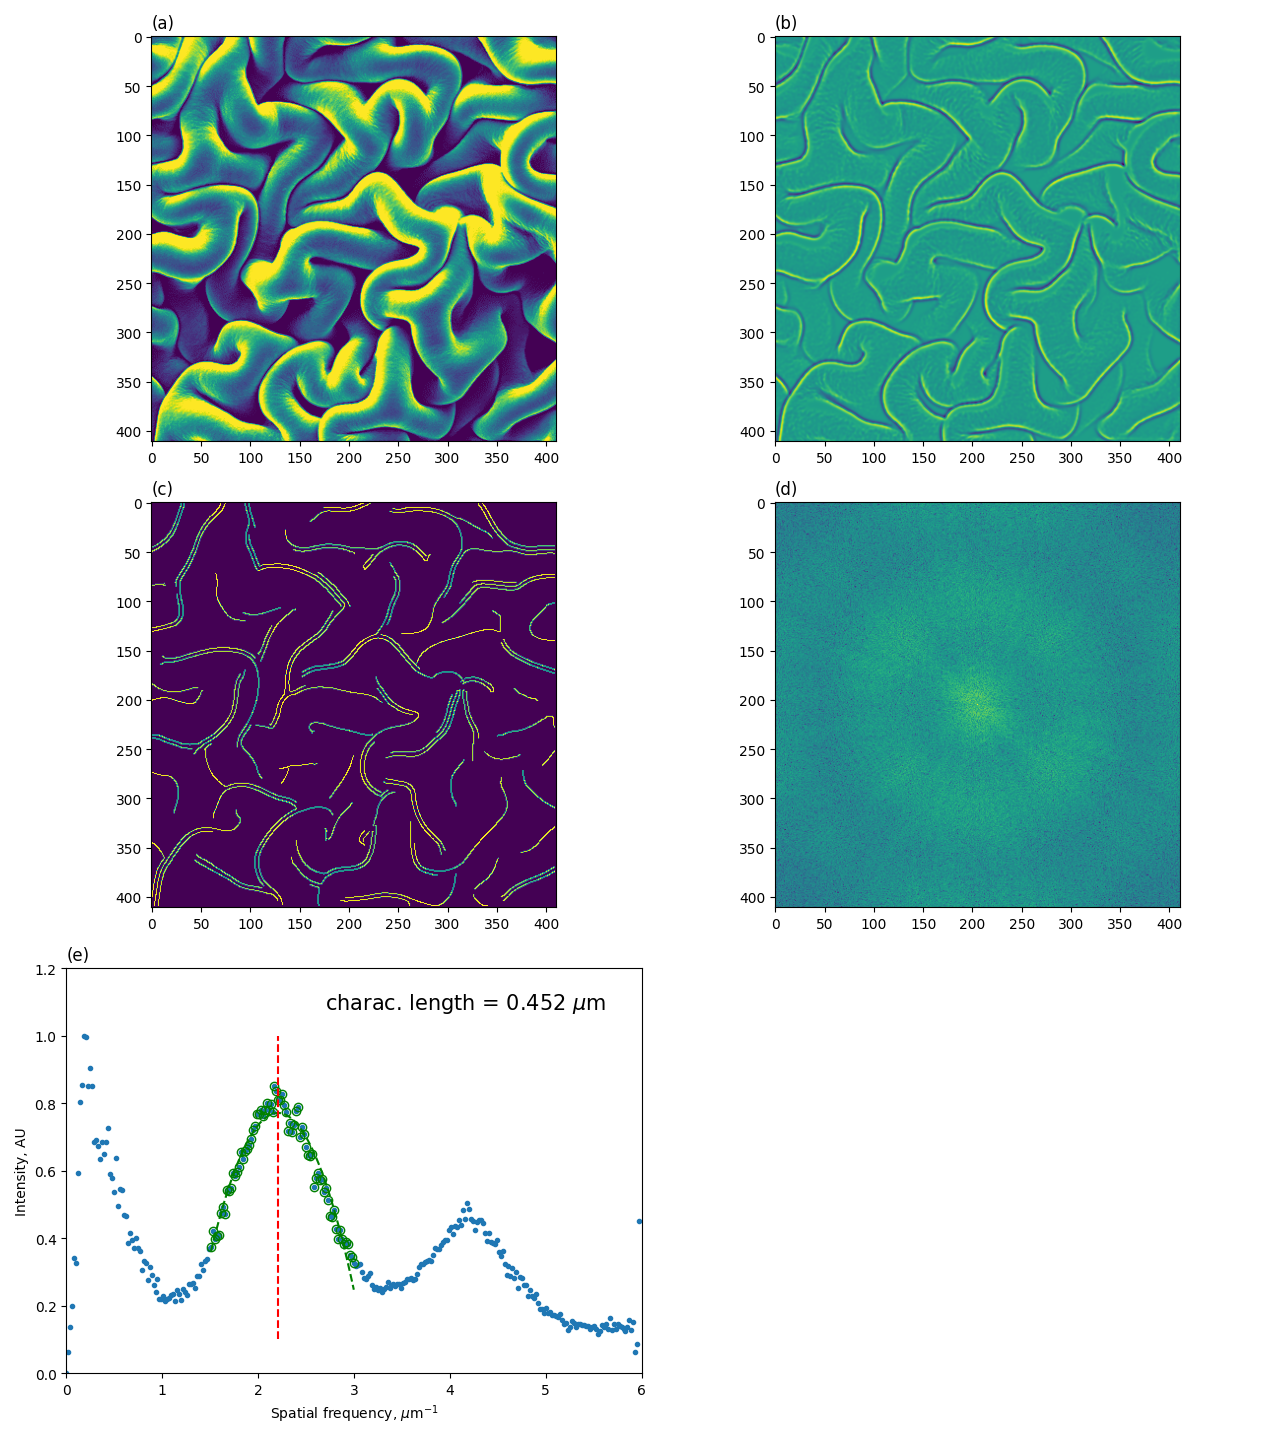
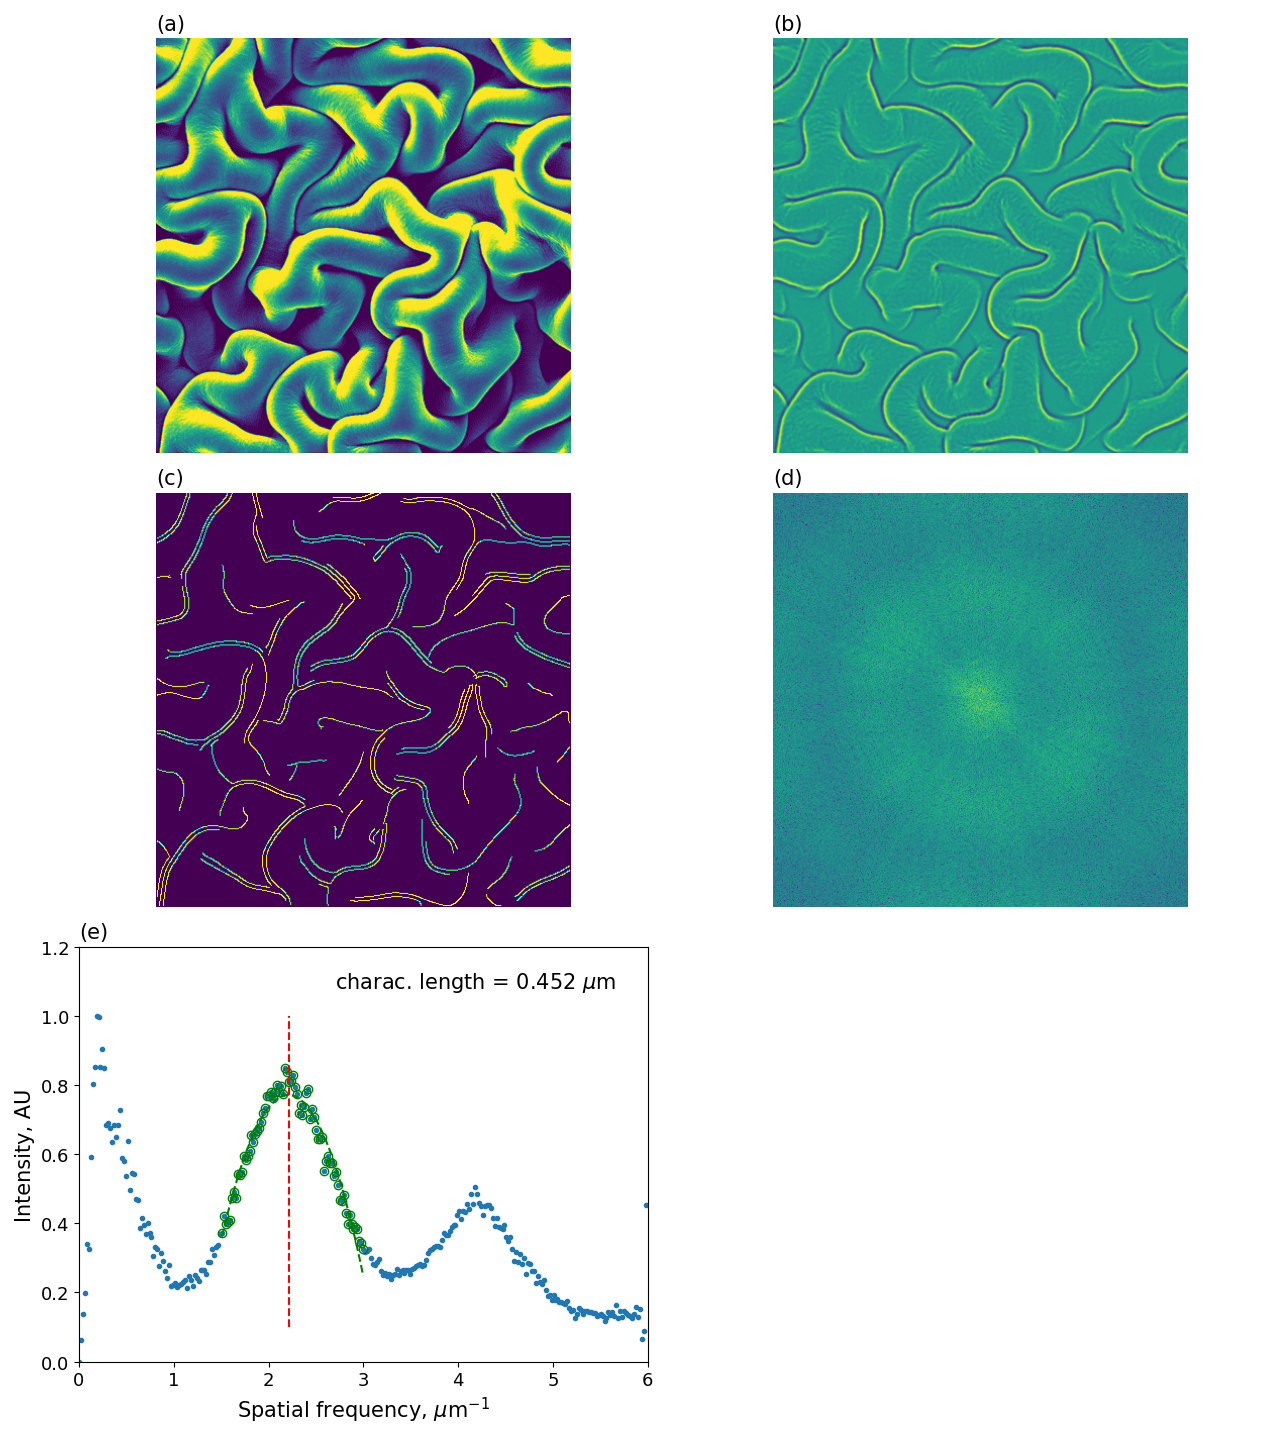
updated figures for kdf_biaxial test case

diff --git a/test_cases/experimental_surface_images/cnc-poegma_biaxial_nanowrinkled/src/characteristic_length.py b/test_cases/experimental_surface_images/cnc-poegma_biaxial_nanowrinkled/src/characteristic_length.py
@@ -191,60 +191,163 @@ LINEWIDTH = 3; ROLLWINDOW = 100                 # plot spec
 NROWS = 3; NCOLS = 2
 f, axs = plt.subplots(nrows=NROWS,ncols=NCOLS,
                       figsize=(NCOLS*FIGWIDTH,NROWS*FIGHEIGHT))
-axs[0,0].imshow(image_sq)
-axs[0,0].set_title("(a)", loc='left')
-# axs[0,0].set_title("Squared image")
+axs[0,0].imshow(image_sq) # squared image
+axs[0,0].set_title("(a)", loc='left', fontsize=TITLEFONT)
+axs[0,0].axis('off')
 
-axs[0,1].imshow(filtered_image_sq)
-axs[0,1].set_title("(b)", loc='left')
-# axs[0,1].set_title("Squared filtered image")
+axs[0,1].imshow(filtered_image_sq) # squared DofG filtered image
+axs[0,1].set_title("(b)", loc='left', fontsize=TITLEFONT)
+axs[0,1].axis('off')
 
-axs[1,0].imshow(filtered_edges_square)
-axs[1,0].set_title("(c)", loc='left')
-# axs[1,0].set_title("Squared Canny edge detected image")
+axs[1,0].imshow(filtered_edges_square) # squared Canny edge detected image
+axs[1,0].set_title("(c)", loc='left', fontsize=TITLEFONT)
+axs[1,0].axis('off')
 
-axs[1,1].imshow(np.log(psd2D))
-axs[1,1].set_title("(d)", loc='left')
-# axs[1,1].set_title("Center-shifted 2D Power Spectral Density")
+axs[1,1].imshow(np.log(psd2D)) # squared center-shifted 2D PSD
+axs[1,1].set_title("(d)", loc='left', fontsize=TITLEFONT)
+axs[1,1].axis('off')
 
 if int(POP_NUM == 2):
     axs[2,0].plot(1/lam[:rasp_length],rasp_norm_au,linestyle='none',marker='.')
     axs[2,0].plot(x_pop1,y_pop1,linestyle='none',marker='o',fillstyle='none',color='green')
     axs[2,0].plot(x_pop1,mdl_pop1,linestyle='--',color='green')
     axs[2,0].vlines(pop1_feature_size,ymin=0.1,ymax=1,linestyle='--',color='red')
-    axs[2,0].set_title("(e)", loc='left')
-    axs[2,0].set_ylabel("Intensity, AU")
-    axs[2,0].set_xlabel("Spatial frequency, $\mu$m$^{-1}$")
+    axs[2,0].set_title("(e)", loc='left', fontsize=TITLEFONT)
+    axs[2,0].set_ylabel("Intensity, AU", fontsize=TITLEFONT)
+    axs[2,0].set_xlabel("Spatial frequency, $\mu$m$^{-1}$", fontsize=TITLEFONT)
     axs[2,0].annotate('charac. length = ' + str(np.around(1/pop1_feature_size[0],decimals=3)) + ' $\mu$m',
                     xy=(0.45,0.9), xycoords='axes fraction', fontsize=TEXTFONT)
     axs[2,0].set_xlim([0,6])
     axs[2,0].set_ylim([0,1.2])
+    axs[2,0].tick_params(axis='both', which='major', labelsize=TICKSFONT)
 
     axs[2,1].plot(1/lam[:rasp_length],rasp_norm_au,linestyle='none',marker='.')
     axs[2,1].plot(x_pop2,y_pop2,linestyle='none',marker='o',fillstyle='none',color='green')
     axs[2,1].plot(x_pop2,mdl_pop2,linestyle='--',color='green')
     axs[2,1].vlines(pop2_feature_size,ymin=0.1,ymax=1,linestyle='--',color='red')
-    axs[2,1].set_title("(f)", loc='left')
-    axs[2,1].set_ylabel("Intensity, AU")
-    axs[2,1].set_xlabel("Spatial frequency, $\mu$m$^{-1}$")
+    axs[2,1].set_title("(f)", loc='left', fontsize=TITLEFONT)
+    axs[2,1].set_ylabel("Intensity, AU", fontsize=TITLEFONT)
+    axs[2,1].set_xlabel("Spatial frequency, $\mu$m$^{-1}$", fontsize=TITLEFONT)
     axs[2,1].annotate('charac. length = ' + str(np.around(1/pop2_feature_size[0],decimals=3)) + ' $\mu$m',
                     xy=(0.45,0.9), xycoords='axes fraction', fontsize=TEXTFONT)
     axs[2,1].set_xlim([0,6])
     axs[2,1].set_ylim([0,1.2])
+    axs[2,1].tick_params(axis='both', which='major', labelsize=TICKSFONT)
 else:
     axs[2,0].plot(1/lam[:rasp_length],rasp_norm_au,linestyle='none',marker='.')
     axs[2,0].plot(x_pop1,y_pop1,linestyle='none',marker='o',fillstyle='none',color='green')
     axs[2,0].plot(x_pop1,mdl_pop1,linestyle='--',color='green')
     axs[2,0].vlines(pop1_feature_size,ymin=0.1,ymax=1,linestyle='--',color='red')
-    axs[2,0].set_title("(e)", loc='left')
-    axs[2,0].set_ylabel("Intensity, AU")
-    axs[2,0].set_xlabel("Spatial frequency, $\mu$m$^{-1}$")
+    axs[2,0].set_title("(e)", loc='left', fontsize=TITLEFONT)
+    axs[2,0].set_ylabel("Intensity, AU", fontsize=TITLEFONT)
+    axs[2,0].set_xlabel("Spatial frequency, $\mu$m$^{-1}$", fontsize=TITLEFONT)
     axs[2,0].annotate('charac. length = ' + str(np.around(1/pop1_feature_size[0],decimals=3)) + ' $\mu$m',
                     xy=(0.45,0.9), xycoords='axes fraction', fontsize=TEXTFONT)
     axs[2,0].set_xlim([0,6])
     axs[2,0].set_ylim([0,1.2])
+    axs[2,0].tick_params(axis='both', which='major', labelsize=TICKSFONT)
     
     axs[2,1].axis('off')
     
 f.tight_layout()
 f.savefig("figures/" + file_name + "_summary.png")
+
+# image analysis figure
+NROWS = 2; NCOLS = 2
+f, axs = plt.subplots(nrows=NROWS,ncols=NCOLS,
+                      figsize=(NCOLS*FIGWIDTH,NROWS*FIGHEIGHT))
+axs[0,0].imshow(image_sq)
+axs[0,0].set_title("(a)", loc='left', fontsize=TITLEFONT)
+axs[0,0].axis('off')
+# axs[0,0].set_ylabel("Pixels", fontsize=TEXTFONT)
+# axs[0,0].set_xlabel("Pixels", fontsize=TEXTFONT)
+# axs[0,0].set_title("Squared image")
+
+axs[0,1].imshow(filtered_image_sq)
+axs[0,1].set_title("(b)", loc='left', fontsize=TITLEFONT)
+axs[0,1].axis('off')
+# axs[0,1].set_ylabel("Pixels", fontsize=TEXTFONT)
+# axs[0,1].set_xlabel("Pixels", fontsize=TEXTFONT)
+# axs[0,1].set_title("Squared filtered image")
+
+axs[1,0].imshow(filtered_edges_square)
+axs[1,0].set_title("(c)", loc='left', fontsize=TITLEFONT)
+axs[1,0].axis('off')
+# axs[1,0].set_ylabel("Pixels", fontsize=TEXTFONT)
+# axs[1,0].set_xlabel("Pixels", fontsize=TEXTFONT)
+# axs[1,0].set_title("Squared Canny edge detected image")
+
+axs[1,1].imshow(np.log(psd2D))
+axs[1,1].set_title("(d)", loc='left', fontsize=TITLEFONT)
+axs[1,1].axis('off')
+# axs[1,1].set_ylabel("Pixels", fontsize=TEXTFONT)
+# axs[1,1].set_xlabel("Pixels", fontsize=TEXTFONT)
+# axs[1,1].set_title("Center-shifted 2D Power Spectral Density")
+    
+f.tight_layout()
+f.savefig("figures/" + file_name + "_image_analysis.png")
+
+
+if int(POP_NUM == 2):
+    # population 1 figure
+    NROWS = 1; NCOLS = 1
+    f, axs = plt.subplots(nrows=NROWS,ncols=NCOLS,
+                        figsize=(NCOLS*FIGWIDTH,NROWS*FIGHEIGHT))
+
+    axs.plot(1/lam[:rasp_length],rasp_norm_au,linestyle='none',marker='.')
+    axs.plot(x_pop1,y_pop1,linestyle='none',marker='o',fillstyle='none',color='green')
+    axs.plot(x_pop1,mdl_pop1,linestyle='--',color='green')
+    axs.vlines(pop1_feature_size,ymin=0.1,ymax=1,linestyle='--',color='red')
+    axs.set_title("(e)", loc='left', fontsize=TITLEFONT)
+    axs.set_ylabel("Intensity, AU", fontsize=TITLEFONT)
+    axs.set_xlabel("Spatial frequency, $\mu$m$^{-1}$", fontsize=TITLEFONT)
+    axs.annotate('charac. length = ' + str(np.around(1/pop1_feature_size[0],decimals=3)) + ' $\mu$m',
+                    xy=(0.45,0.9), xycoords='axes fraction', fontsize=TEXTFONT)
+    axs.set_xlim([0,6])
+    axs.set_ylim([0,1.2])
+    
+    f.tight_layout()
+    f.savefig("figures/" + file_name + "_pop1_rasp.png")
+    
+    # population 2 figure
+    NROWS = 1; NCOLS = 1
+    f, axs = plt.subplots(nrows=NROWS,ncols=NCOLS,
+                        figsize=(NCOLS*FIGWIDTH,NROWS*FIGHEIGHT))
+
+    axs.plot(1/lam[:rasp_length],rasp_norm_au,linestyle='none',marker='.')
+    axs.plot(x_pop2,y_pop2,linestyle='none',marker='o',fillstyle='none',color='green')
+    axs.plot(x_pop2,mdl_pop2,linestyle='--',color='green')
+    axs.vlines(pop2_feature_size,ymin=0.1,ymax=1,linestyle='--',color='red')
+    axs.set_title("(f)", loc='left', fontsize=TITLEFONT)
+    axs.set_ylabel("Intensity, AU", fontsize=TITLEFONT)
+    axs.set_xlabel("Spatial frequency, $\mu$m$^{-1}$", fontsize=TITLEFONT)
+    axs.annotate('charac. length = ' + str(np.around(1/pop2_feature_size[0],decimals=3)) + ' $\mu$m',
+                    xy=(0.45,0.9), xycoords='axes fraction', fontsize=TEXTFONT)
+    axs.set_xlim([0,6])
+    axs.set_ylim([0,1.2])
+    
+    f.tight_layout()
+    f.savefig("figures/" + file_name + "_pop2_rasp.png")
+    
+else:
+    
+    # summary figure
+    NROWS = 1; NCOLS = 1
+    f, axs = plt.subplots(nrows=NROWS,ncols=NCOLS,
+                        figsize=(NCOLS*FIGWIDTH,NROWS*FIGHEIGHT))
+    
+    axs.plot(1/lam[:rasp_length],rasp_norm_au,linestyle='none',marker='.')
+    axs.plot(x_pop1,y_pop1,linestyle='none',marker='o',fillstyle='none',color='green')
+    axs.plot(x_pop1,mdl_pop1,linestyle='--',color='green')
+    axs.vlines(pop1_feature_size,ymin=0.1,ymax=1,linestyle='--',color='red')
+    axs.set_title("(e)", loc='left', fontsize=TITLEFONT)
+    axs.set_ylabel("Intensity, AU", fontsize=TITLEFONT)
+    axs.set_xlabel("Spatial frequency, $\mu$m$^{-1}$", fontsize=TITLEFONT)
+    axs.annotate('charac. length = ' + str(np.around(1/pop1_feature_size[0],decimals=3)) + ' $\mu$m',
+                    xy=(0.45,0.9), xycoords='axes fraction', fontsize=TEXTFONT)
+    axs.set_xlim([0,6])
+    axs.set_ylim([0,1.2])
+    axs.tick_params(axis='both', which='major', labelsize=TICKSFONT)
+    
+    f.tight_layout()
+    f.savefig("figures/" + file_name + "_pop1_rasp.png")
